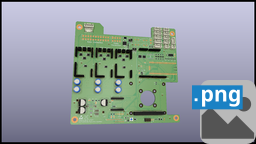
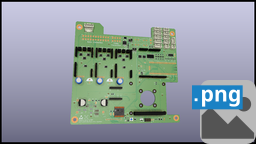
deploy: b4345dc02e999aac61d92785c1759386b7f7619d

diff --git a/release_navigator/OpenMowerMainboard-navigate_PCB_docs.html b/release_navigator/OpenMowerMainboard-navigate_PCB_docs.html
@@ -10,7 +10,7 @@
 <table class="output-table">
 <thead><tr><th colspan="12">Pcbdraw svg: Exports the PCB as a 2D model (SVG, PNG or JPG).</th></tr></thead>
 <tbody><tr>
-<td class="out-cell" colspan="12"><a href="../release/OpenMowerMainboard-top.svg"><table class="out-img"><tr><td><img src="images/cat_pcbdraw_svg_OpenMowerMainboard-top.png" alt="OpenMowerMainboard-top.svg" width="256" height="243"></td></tr><tr><td class="td-small">OpenMowerMainboard-top.svg</td></tr></table></a></td>
+<td class="out-cell" colspan="12"><a href="../release/OpenMowerMainboard-top.svg"><table class="out-img"><tr><td><img src="images/cat_pcbdraw_svg_OpenMowerMainboard-top.png" alt="OpenMowerMainboard-top.svg" width="256" height="242"></td></tr><tr><td class="td-small">OpenMowerMainboard-top.svg</td></tr></table></a></td>
 </tr>
 <tr>
 <td></td>
@@ -52,7 +52,7 @@
 <table class="output-table">
 <thead><tr><th colspan="12">Pcbdraw svg bottom: Exports the PCB as a 2D model (SVG, PNG or JPG).</th></tr></thead>
 <tbody><tr>
-<td class="out-cell" colspan="12"><a href="../release/OpenMowerMainboard-bottom.svg"><table class="out-img"><tr><td><img src="images/cat_pcbdraw_svg_bottom_OpenMowerMainboard-bottom.png" alt="OpenMowerMainboard-bottom.svg" width="256" height="243"></td></tr><tr><td class="td-small">OpenMowerMainboard-bottom.svg</td></tr></table></a></td>
+<td class="out-cell" colspan="12"><a href="../release/OpenMowerMainboard-bottom.svg"><table class="out-img"><tr><td><img src="images/cat_pcbdraw_svg_bottom_OpenMowerMainboard-bottom.png" alt="OpenMowerMainboard-bottom.svg" width="256" height="242"></td></tr><tr><td class="td-small">OpenMowerMainboard-bottom.svg</td></tr></table></a></td>
 </tr>
 <tr>
 <td></td>
@@ -91,5 +91,5 @@
 </tr>
 </tbody>
 </table>
-<table class="nav-table"> <tr>  <td><a href="OpenMowerMainboard-navigate_PCB.html"><img src="images/back_64.png" width="64" height="64" alt="go back"></a></td>  <td><a href="OpenMowerMainboard-navigate.html"><img src="images/home_64.png" width="64" height="64" alt="go home"></a></td> </tr></table><p class="generator">Generated by <a href="https://github.com/INTI-CMNB/KiBot/">KiBot</a> v1.3.0</p></body>
+<table class="nav-table"> <tr>  <td><a href="OpenMowerMainboard-navigate_PCB.html"><img src="images/back_64.png" width="64" height="64" alt="go back"></a></td>  <td><a href="OpenMowerMainboard-navigate.html"><img src="images/home_64.png" width="64" height="64" alt="go home"></a></td> </tr></table><p class="generator">Generated by <a href="https://github.com/INTI-CMNB/KiBot/">KiBot</a> v1.5.1</p></body>
 </html>

diff --git a/release_navigator/OpenMowerMainboard-navigate_PCB_fabrication.html b/release_navigator/OpenMowerMainboard-navigate_PCB_fabrication.html
@@ -14,5 +14,5 @@
  <td><a href="OpenMowerMainboard-navigate_PCB_fabrication_assembly.html"><table class="cat-img"><tr><td><img src="images/assembly_simple_256.png" alt="assembly" width="256" height="256"><br>assembly</td></tr></table></a></td>
 </tr>
 </table>
-<table class="nav-table"> <tr>  <td><a href="OpenMowerMainboard-navigate_PCB.html"><img src="images/back_64.png" width="64" height="64" alt="go back"></a></td>  <td><a href="OpenMowerMainboard-navigate.html"><img src="images/home_64.png" width="64" height="64" alt="go home"></a></td> </tr></table><p class="generator">Generated by <a href="https://github.com/INTI-CMNB/KiBot/">KiBot</a> v1.3.0</p></body>
+<table class="nav-table"> <tr>  <td><a href="OpenMowerMainboard-navigate_PCB.html"><img src="images/back_64.png" width="64" height="64" alt="go back"></a></td>  <td><a href="OpenMowerMainboard-navigate.html"><img src="images/home_64.png" width="64" height="64" alt="go home"></a></td> </tr></table><p class="generator">Generated by <a href="https://github.com/INTI-CMNB/KiBot/">KiBot</a> v1.5.1</p></body>
 </html>

diff --git a/release_navigator/OpenMowerMainboard-navigate_Schematic.html b/release_navigator/OpenMowerMainboard-navigate_Schematic.html
@@ -13,5 +13,5 @@
  <td><a href="OpenMowerMainboard-navigate_Schematic_docs.html"><table class="cat-img"><tr><td><img src="images/project_256.png" alt="docs" width="256" height="256"><br>docs</td></tr></table></a></td>
 </tr>
 </table>
-<table class="nav-table"> <tr>  <td><a href="OpenMowerMainboard-navigate.html"><img src="images/back_64.png" width="64" height="64" alt="go back"></a></td>  <td><a href="OpenMowerMainboard-navigate.html"><img src="images/home_64.png" width="64" height="64" alt="go home"></a></td> </tr></table><p class="generator">Generated by <a href="https://github.com/INTI-CMNB/KiBot/">KiBot</a> v1.3.0</p></body>
+<table class="nav-table"> <tr>  <td><a href="OpenMowerMainboard-navigate.html"><img src="images/back_64.png" width="64" height="64" alt="go back"></a></td>  <td><a href="OpenMowerMainboard-navigate.html"><img src="images/home_64.png" width="64" height="64" alt="go home"></a></td> </tr></table><p class="generator">Generated by <a href="https://github.com/INTI-CMNB/KiBot/">KiBot</a> v1.5.1</p></body>
 </html>

diff --git a/release_navigator/OpenMowerMainboard-navigate_PCB.html b/release_navigator/OpenMowerMainboard-navigate_PCB.html
@@ -14,5 +14,5 @@
  <td><a href="OpenMowerMainboard-navigate_PCB_3D.html"><table class="cat-img"><tr><td><img src="images/3d_256.png" alt="3D" width="256" height="256"><br>3D</td></tr></table></a></td>
 </tr>
 </table>
-<table class="nav-table"> <tr>  <td><a href="OpenMowerMainboard-navigate.html"><img src="images/back_64.png" width="64" height="64" alt="go back"></a></td>  <td><a href="OpenMowerMainboard-navigate.html"><img src="images/home_64.png" width="64" height="64" alt="go home"></a></td> </tr></table><p class="generator">Generated by <a href="https://github.com/INTI-CMNB/KiBot/">KiBot</a> v1.3.0</p></body>
+<table class="nav-table"> <tr>  <td><a href="OpenMowerMainboard-navigate.html"><img src="images/back_64.png" width="64" height="64" alt="go back"></a></td>  <td><a href="OpenMowerMainboard-navigate.html"><img src="images/home_64.png" width="64" height="64" alt="go home"></a></td> </tr></table><p class="generator">Generated by <a href="https://github.com/INTI-CMNB/KiBot/">KiBot</a> v1.5.1</p></body>
 </html>

diff --git a/release_navigator/OpenMowerMainboard-navigate_PCB_fabrication_assembly.html b/release_navigator/OpenMowerMainboard-navigate_PCB_fabrication_assembly.html
@@ -51,5 +51,5 @@
 </tr>
 </tbody>
 </table>
-<table class="nav-table"> <tr>  <td><a href="OpenMowerMainboard-navigate_PCB_fabrication.html"><img src="images/back_64.png" width="64" height="64" alt="go back"></a></td>  <td><a href="OpenMowerMainboard-navigate.html"><img src="images/home_64.png" width="64" height="64" alt="go home"></a></td> </tr></table><p class="generator">Generated by <a href="https://github.com/INTI-CMNB/KiBot/">KiBot</a> v1.3.0</p></body>
+<table class="nav-table"> <tr>  <td><a href="OpenMowerMainboard-navigate_PCB_fabrication.html"><img src="images/back_64.png" width="64" height="64" alt="go back"></a></td>  <td><a href="OpenMowerMainboard-navigate.html"><img src="images/home_64.png" width="64" height="64" alt="go home"></a></td> </tr></table><p class="generator">Generated by <a href="https://github.com/INTI-CMNB/KiBot/">KiBot</a> v1.5.1</p></body>
 </html>

diff --git a/release_navigator/OpenMowerMainboard-navigate_PCB_fabrication_drill.html b/release_navigator/OpenMowerMainboard-navigate_PCB_fabrication_drill.html
@@ -30,5 +30,5 @@
 </tr>
 </tbody>
 </table>
-<table class="nav-table"> <tr>  <td><a href="OpenMowerMainboard-navigate_PCB_fabrication.html"><img src="images/back_64.png" width="64" height="64" alt="go back"></a></td>  <td><a href="OpenMowerMainboard-navigate.html"><img src="images/home_64.png" width="64" height="64" alt="go home"></a></td> </tr></table><p class="generator">Generated by <a href="https://github.com/INTI-CMNB/KiBot/">KiBot</a> v1.3.0</p></body>
+<table class="nav-table"> <tr>  <td><a href="OpenMowerMainboard-navigate_PCB_fabrication.html"><img src="images/back_64.png" width="64" height="64" alt="go back"></a></td>  <td><a href="OpenMowerMainboard-navigate.html"><img src="images/home_64.png" width="64" height="64" alt="go home"></a></td> </tr></table><p class="generator">Generated by <a href="https://github.com/INTI-CMNB/KiBot/">KiBot</a> v1.5.1</p></body>
 </html>

diff --git a/release_navigator/OpenMowerMainboard-navigate_PCB_fabrication_gerber.html b/release_navigator/OpenMowerMainboard-navigate_PCB_fabrication_gerber.html
@@ -38,5 +38,5 @@
 </tr>
 </tbody>
 </table>
-<table class="nav-table"> <tr>  <td><a href="OpenMowerMainboard-navigate_PCB_fabrication.html"><img src="images/back_64.png" width="64" height="64" alt="go back"></a></td>  <td><a href="OpenMowerMainboard-navigate.html"><img src="images/home_64.png" width="64" height="64" alt="go home"></a></td> </tr></table><p class="generator">Generated by <a href="https://github.com/INTI-CMNB/KiBot/">KiBot</a> v1.3.0</p></body>
+<table class="nav-table"> <tr>  <td><a href="OpenMowerMainboard-navigate_PCB_fabrication.html"><img src="images/back_64.png" width="64" height="64" alt="go back"></a></td>  <td><a href="OpenMowerMainboard-navigate.html"><img src="images/home_64.png" width="64" height="64" alt="go home"></a></td> </tr></table><p class="generator">Generated by <a href="https://github.com/INTI-CMNB/KiBot/">KiBot</a> v1.5.1</p></body>
 </html>

diff --git a/release_navigator/OpenMowerMainboard-navigate_Schematic_BoM.html b/release_navigator/OpenMowerMainboard-navigate_Schematic_BoM.html
@@ -28,5 +28,5 @@
 </tr>
 </tbody>
 </table>
-<table class="nav-table"> <tr>  <td><a href="OpenMowerMainboard-navigate_Schematic.html"><img src="images/back_64.png" width="64" height="64" alt="go back"></a></td>  <td><a href="OpenMowerMainboard-navigate.html"><img src="images/home_64.png" width="64" height="64" alt="go home"></a></td> </tr></table><p class="generator">Generated by <a href="https://github.com/INTI-CMNB/KiBot/">KiBot</a> v1.3.0</p></body>
+<table class="nav-table"> <tr>  <td><a href="OpenMowerMainboard-navigate_Schematic.html"><img src="images/back_64.png" width="64" height="64" alt="go back"></a></td>  <td><a href="OpenMowerMainboard-navigate.html"><img src="images/home_64.png" width="64" height="64" alt="go home"></a></td> </tr></table><p class="generator">Generated by <a href="https://github.com/INTI-CMNB/KiBot/">KiBot</a> v1.5.1</p></body>
 </html>

diff --git a/release_navigator/OpenMowerMainboard-navigate_Schematic_docs.html b/release_navigator/OpenMowerMainboard-navigate_Schematic_docs.html
@@ -28,5 +28,5 @@
 </tr>
 </tbody>
 </table>
-<table class="nav-table"> <tr>  <td><a href="OpenMowerMainboard-navigate_Schematic.html"><img src="images/back_64.png" width="64" height="64" alt="go back"></a></td>  <td><a href="OpenMowerMainboard-navigate.html"><img src="images/home_64.png" width="64" height="64" alt="go home"></a></td> </tr></table><p class="generator">Generated by <a href="https://github.com/INTI-CMNB/KiBot/">KiBot</a> v1.3.0</p></body>
+<table class="nav-table"> <tr>  <td><a href="OpenMowerMainboard-navigate_Schematic.html"><img src="images/back_64.png" width="64" height="64" alt="go back"></a></td>  <td><a href="OpenMowerMainboard-navigate.html"><img src="images/home_64.png" width="64" height="64" alt="go home"></a></td> </tr></table><p class="generator">Generated by <a href="https://github.com/INTI-CMNB/KiBot/">KiBot</a> v1.5.1</p></body>
 </html>

diff --git a/release_navigator/OpenMowerMainboard-navigate_PCB_3D.html b/release_navigator/OpenMowerMainboard-navigate_PCB_3D.html
@@ -28,5 +28,5 @@
 </tr>
 </tbody>
 </table>
-<table class="nav-table"> <tr>  <td><a href="OpenMowerMainboard-navigate_PCB.html"><img src="images/back_64.png" width="64" height="64" alt="go back"></a></td>  <td><a href="OpenMowerMainboard-navigate.html"><img src="images/home_64.png" width="64" height="64" alt="go home"></a></td> </tr></table><p class="generator">Generated by <a href="https://github.com/INTI-CMNB/KiBot/">KiBot</a> v1.3.0</p></body>
+<table class="nav-table"> <tr>  <td><a href="OpenMowerMainboard-navigate_PCB.html"><img src="images/back_64.png" width="64" height="64" alt="go back"></a></td>  <td><a href="OpenMowerMainboard-navigate.html"><img src="images/home_64.png" width="64" height="64" alt="go home"></a></td> </tr></table><p class="generator">Generated by <a href="https://github.com/INTI-CMNB/KiBot/">KiBot</a> v1.5.1</p></body>
 </html>

diff --git a/release_navigator/OpenMowerMainboard-navigate_Compress.html b/release_navigator/OpenMowerMainboard-navigate_Compress.html
@@ -28,5 +28,5 @@
 </tr>
 </tbody>
 </table>
-<table class="nav-table"> <tr>  <td><a href="OpenMowerMainboard-navigate.html"><img src="images/back_64.png" width="64" height="64" alt="go back"></a></td>  <td><a href="OpenMowerMainboard-navigate.html"><img src="images/home_64.png" width="64" height="64" alt="go home"></a></td> </tr></table><p class="generator">Generated by <a href="https://github.com/INTI-CMNB/KiBot/">KiBot</a> v1.3.0</p></body>
+<table class="nav-table"> <tr>  <td><a href="OpenMowerMainboard-navigate.html"><img src="images/back_64.png" width="64" height="64" alt="go back"></a></td>  <td><a href="OpenMowerMainboard-navigate.html"><img src="images/home_64.png" width="64" height="64" alt="go home"></a></td> </tr></table><p class="generator">Generated by <a href="https://github.com/INTI-CMNB/KiBot/">KiBot</a> v1.5.1</p></body>
 </html>

diff --git a/release_navigator/OpenMowerMainboard-navigate.html b/release_navigator/OpenMowerMainboard-navigate.html
@@ -14,5 +14,5 @@
  <td><a href="OpenMowerMainboard-navigate_Schematic.html"><table class="out-img"><tr><td><img src="images/cat_Schematic_OpenMowerMainboard-schematic.png" alt="OpenMowerMainboard-schematic.pdf" width="256" height="181"></td></tr><tr><td class="td-normal">Schematic</td></tr></table></a></td>
 </tr>
 </table>
-<p class="generator">Generated by <a href="https://github.com/INTI-CMNB/KiBot/">KiBot</a> v1.3.0</p></body>
+<p class="generator">Generated by <a href="https://github.com/INTI-CMNB/KiBot/">KiBot</a> v1.5.1</p></body>
 </html>
